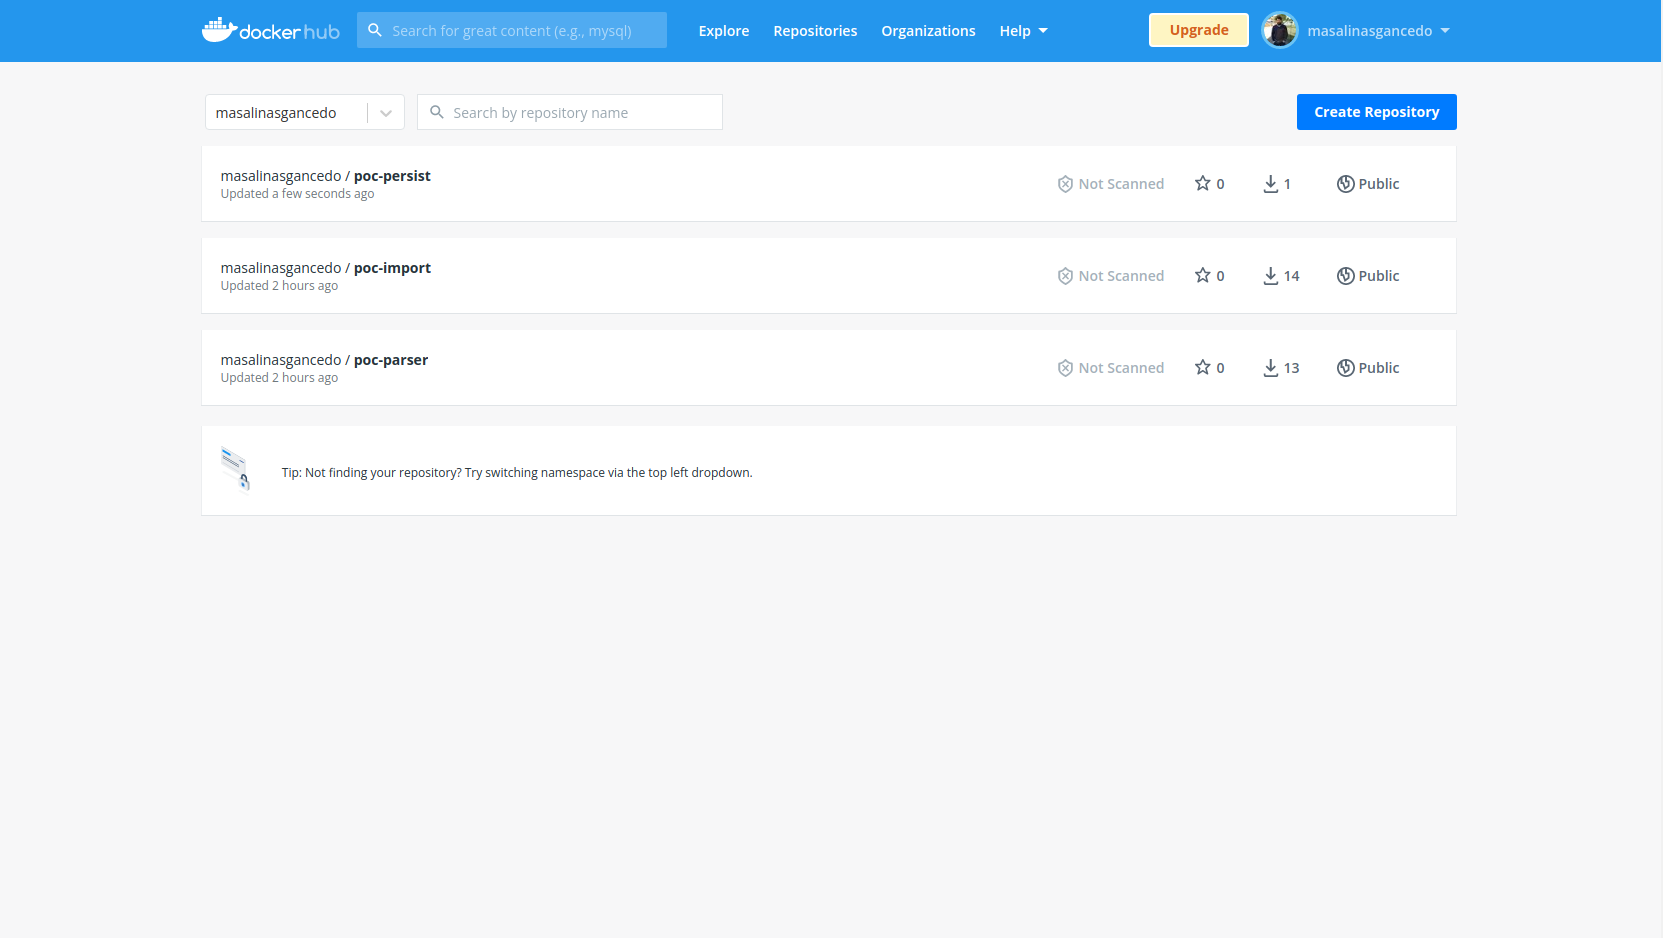
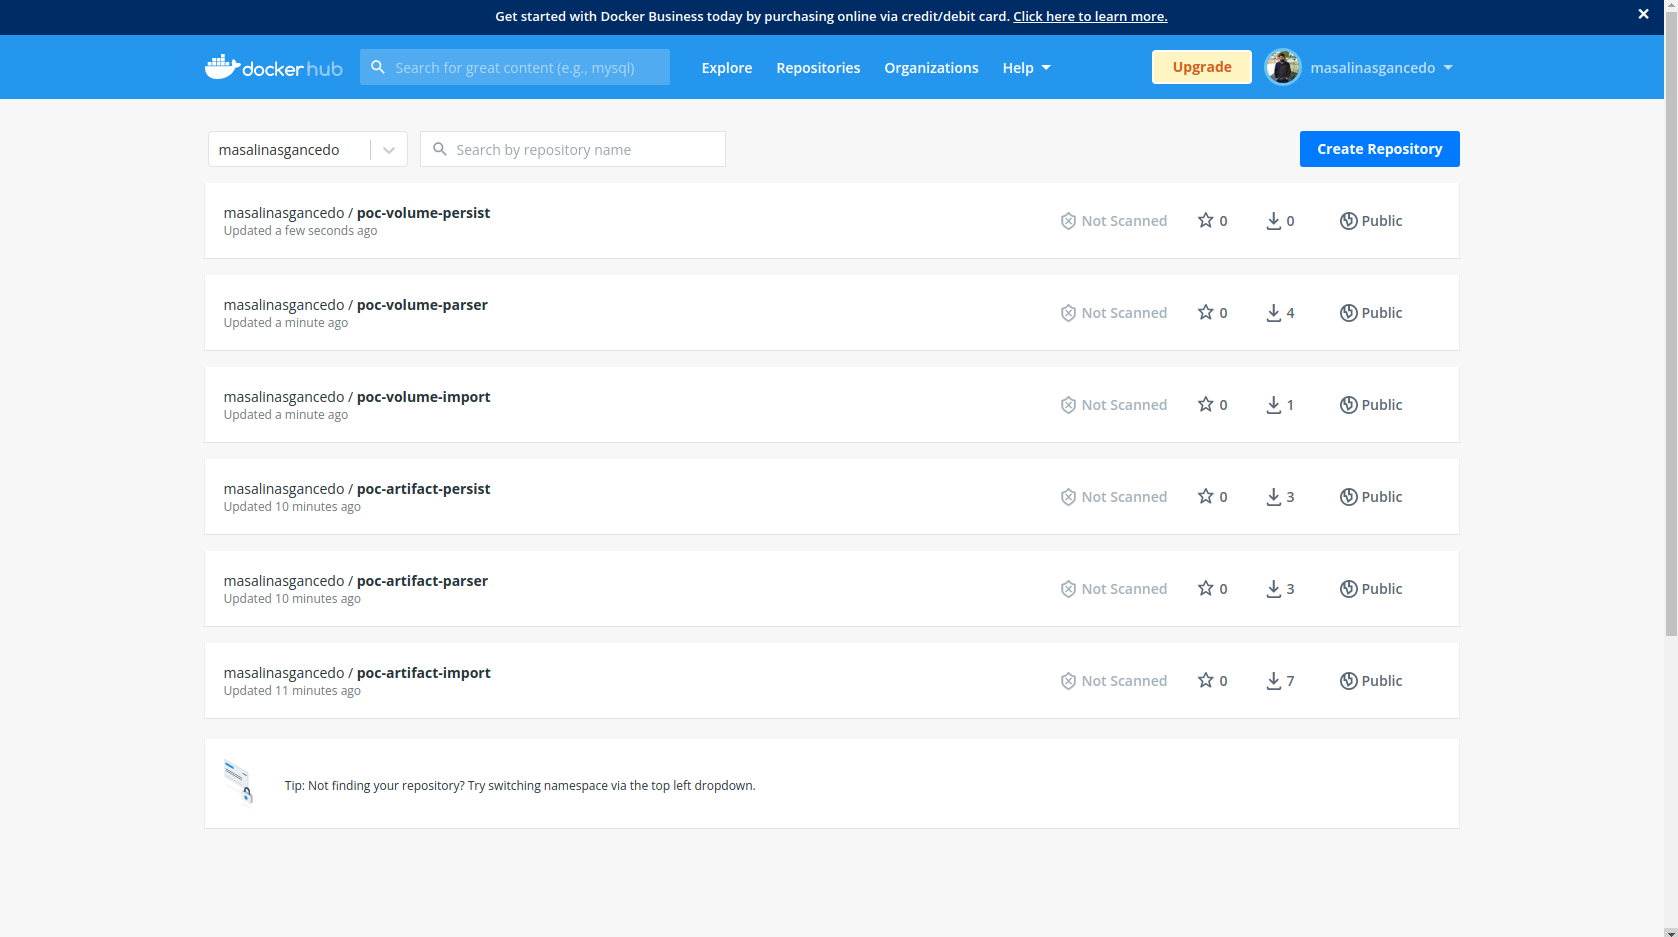
last update

diff --git a/templates/volume/02-parser/parser.py b/templates/volume/02-parser/parser.py
@@ -1,0 +1,28 @@
+import sys
+import json
+
+from csv import DictReader
+
+DATA_PATH = "/mnt/dataset/"
+DATA_FILENAME = "covid-19.csv"
+
+def parser(csvDataset, jsonDataset):    
+    # read csv dataset
+    with open(DATA_PATH + csvDataset, 'r') as csvFile:                
+        fieldnames = ("Date","iso3","CountryName","lat","lon","CumulativePositive","CumulativeDeceased","CumulativeRecovered","CurrentlyPositive","Hospitalized","IntensiveCare","EUcountry","EUCPMcountry","NUTS")
+        csvReader = DictReader(csvFile, fieldnames)
+
+        #convert csv dataset to json one
+        with open(DATA_PATH + jsonDataset, 'w') as jsonFile: 
+            jsonFile.write(json.dumps(list(csvReader)))
+             
+if __name__ == '__main__':
+    try:
+        # get csv dataset and set json dataset file name
+        csvDataset = DATA_FILENAME
+        jsonDataset = DATA_FILENAME.split('.')[0] + '.json'
+
+        # json parser
+        parser(csvDataset, jsonDataset)
+    except BaseException as exc:
+        print("error parsing sample data.", exc)

diff --git a/templates/volume/03-persist/persist.py b/templates/volume/03-persist/persist.py
@@ -1,0 +1,28 @@
+import sys
+import json
+import pymongo
+
+DATABASE = "argo"
+COLLECTION = "covid"
+
+DATA_PATH = "/mnt/dataset/"
+DATA_FILENAME = "covid-19.json"
+
+def insertDataset(jsonDataset):
+    # connect to database
+    dbClient = pymongo.MongoClient("mongodb://192.168.1.57:27017/")
+    db = dbClient[DATABASE]
+    collection = db[COLLECTION]
+
+    # recover dataset
+    with open(DATA_PATH + jsonDataset, 'r') as jsonFile:
+        data = json.load(jsonFile)        
+
+        # insert dataset into database
+        collection.insert_many(data)
+
+if __name__ == "__main__":
+    try:
+        insertDataset(DATA_FILENAME)
+    except BaseException as exc:
+        print("error insert dataset.", exc)

diff --git a/templates/volume/01-import/import.py b/templates/volume/01-import/import.py
@@ -1,0 +1,19 @@
+import sys
+import requests
+
+DATA_PATH = "/mnt/dataset/"
+DATA_FILENAME = "covid-19.csv"
+
+def getDataset(dataSource):
+    # get dataset
+    file = requests.get(dataSource)
+
+    # save dataset
+    with open(DATA_PATH + DATA_FILENAME, "wb") as f:        
+        f.write(file.content)
+
+if __name__ == "__main__":
+    try:
+        getDataset(sys.argv[1])
+    except BaseException as exc:
+        print("error download dataset.", exc)

diff --git a/README.md b/README.md
@@ -1,7 +1,10 @@
 # Description
 Argo Workflow PoC based on Python templates. 
 
-The architecture followed is pass data between templates, using argo artifacts, creating folders inside artifact repository in Minio. Other architecture could be using ephemeral VolumeClaimTemplates attached to all templates, [go to](https://sourcegraph.com/github.com/argoproj/argo-workflows/-/blob/examples/volumes-pvc.yaml?L23:15) to see some examples
+We resolve the PoC following two architecture modes:
+
+- Pass data between templates, using argo artifacts, creating folders inside artifact repository in Minio. 
+- Pass data between ephemeral VolumeClaimTemplates attached to all templates
 
 # Install and start Minikube
 
@@ -126,7 +129,13 @@ client.fput_object(ARGO_BUCKET, DATA_FILENAME, DATA_FILENAME)
 
 To execute the Workflow we must to pass a paramater called dataset-source where the obtain the data to we executed by the workflow
 ```Shell
-argo -n argo submit --watch poc-workflow.yaml -p dataset-source="https://raw.githubusercontent.com/ec-jrc/COVID-19/master/data-by-country/jrc-covid-19-countries-latest.csv"
+Using argo workflow artifact architecture
+
+argo -n argo submit --watch poc-artifact-workflow.yaml -p dataset-source="https://raw.githubusercontent.com/ec-jrc/COVID-19/master/data-by-country/jrc-covid-19-countries-latest.csv"
+
+Using argo workflow volume architecture
+
+argo -n argo submit --watch poc-volume-workflow.yaml -p dataset-source="https://raw.githubusercontent.com/ec-jrc/COVID-19/master/data-by-country/jrc-covid-19-countries-latest.csv"
 ```
 
 Argo Workflow executed
@@ -134,6 +143,7 @@ Argo Workflow executed
 ![PoC Workflow](captures/poc-flow.png "PoC Workflow")
 
 Docker Hubs Containers
+
 ![Dockerhub Containers](captures/dockerhub-containers.png "Dockerhub Containers")
 
 Pods created by Poc Argo Workflow in Kubernetes
